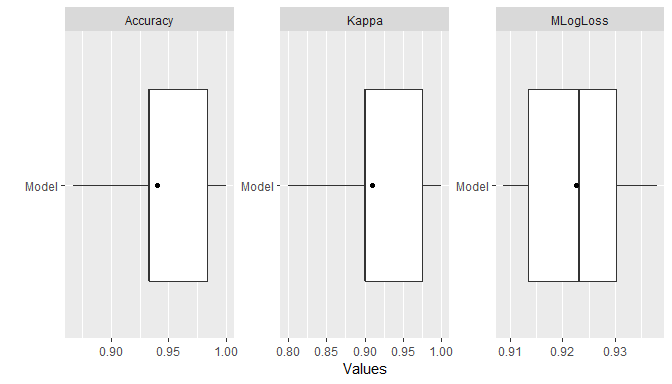
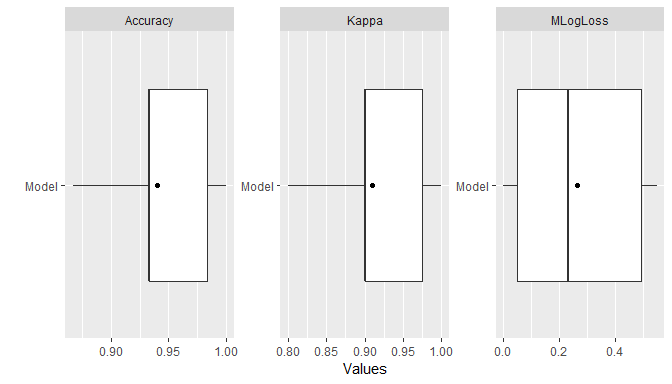
Documentation edits

Changed region(s): [[0.8438, 0.25, 0.875, 0.7188], [0.8125, 0.9062, 0.9375, 0.9375], [0.7188, 0.9062, 0.7812, 0.9375]]

diff --git a/README.md b/README.md
@@ -6,7 +6,7 @@ MachineShop: Machine Learning Models and Tools
 Overview
 --------
 
-`MachineShop` is a meta-package for machine learning with a common interface for model fitting, prediction, performance assessment, and presentation of results. Support is provided for predictive modeling of numerical, categorical, and censored time-to-event outcomes, including those listed in the table below, and for resample (bootstrap and cross-validation) estimation of model performance.
+`MachineShop` is a meta-package for statistical and machine learning with a common interface for model fitting, prediction, performance assessment, and presentation of results. Support is provided for predictive modeling of numerical, categorical, and censored time-to-event outcomes, including those listed in the table below, and for resample (bootstrap and cross-validation) estimation of model performance.
 
 <table class="table table-striped" style="width: auto !important; margin-left: auto; margin-right: auto;">
 <thead>
@@ -225,6 +225,9 @@ Installation
 # Development version from GitHub
 # install.packages("devtools")
 devtools::install_github("brian-j-smith/MachineShop")
+
+# Development version with vignettes
+devtools::install_github("brian-j-smith/MachineShop", build_vignettes = TRUE)
 ```
 
 Example
@@ -252,11 +255,11 @@ gbmfit <- fit(GBMModel(), Species ~ ., data = train)
 
 ## Variable importance
 (vi <- varimp(gbmfit))
-#>                 Overall
-#> Petal.Length 100.000000
-#> Petal.Width   12.700153
-#> Sepal.Width    2.140995
-#> Sepal.Length   0.000000
+#>                  Overall
+#> Petal.Length 100.0000000
+#> Petal.Width   12.9638575
+#> Sepal.Width    0.1409401
+#> Sepal.Length   0.0000000
 
 plot(vi)
 ```
@@ -266,13 +269,13 @@ plot(vi)
 ``` r
 ## Test set predicted probabilities
 predict(gbmfit, newdata = test, type = "prob") %>% head
-#>         setosa versicolor virginica
-#> [1,] 0.4216059  0.2975845 0.2808096
-#> [2,] 0.4216059  0.2975845 0.2808096
-#> [3,] 0.4216059  0.2975845 0.2808096
-#> [4,] 0.4216059  0.2975845 0.2808096
-#> [5,] 0.4219454  0.2958235 0.2822311
-#> [6,] 0.4229810  0.2952935 0.2817254
+#>         setosa   versicolor    virginica
+#> [1,] 0.9999755 2.449128e-05 2.828117e-08
+#> [2,] 0.9999365 6.346918e-05 6.535304e-09
+#> [3,] 0.9999365 6.346918e-05 6.535304e-09
+#> [4,] 0.9999755 2.449128e-05 2.828117e-08
+#> [5,] 0.9998941 1.059313e-04 8.577135e-09
+#> [6,] 0.9999291 7.084465e-05 5.736212e-09
 
 ## Test set predicted classification
 predict(gbmfit, newdata = test) %>% head
@@ -292,11 +295,11 @@ predict(gbmfit, newdata = test) %>% head
 #> resamples: 10
 
 summary(perf)
-#>                    Mean    Median         SD       Min       Max NA
-#> Accuracy      0.9400000 0.9333333 0.04919099 0.8666667 1.0000000  0
-#> Kappa         0.9100000 0.9000000 0.07378648 0.8000000 1.0000000  0
-#> WeightedKappa 0.9330032 0.9249531 0.05424416 0.8500000 1.0000000  0
-#> MLogLoss      0.9225421 0.9232478 0.01008958 0.9087998 0.9379053  0
+#>                    Mean    Median         SD          Min       Max NA
+#> Accuracy      0.9400000 0.9333333 0.04919099 0.8666666667 1.0000000  0
+#> Kappa         0.9100000 0.9000000 0.07378648 0.8000000000 1.0000000  0
+#> WeightedKappa 0.9322889 0.9249531 0.05538903 0.8500000000 1.0000000  0
+#> MLogLoss      0.2624184 0.2301317 0.23719156 0.0008299047 0.5474997  0
 
 plot(perf, metrics = c("Accuracy", "Kappa", "MLogLoss"))
 ```
@@ -307,8 +310,8 @@ plot(perf, metrics = c("Accuracy", "Kappa", "MLogLoss"))
 ## Model tuning
 gbmtune <- tune(GBMModel, Species ~ ., data = df,
                 grid = expand.grid(n.trees = c(25, 50, 100),
-                                    interaction.depth = 1:3,
-                                    n.minobsinnode = c(5, 10)))
+                                   interaction.depth = 1:3,
+                                   n.minobsinnode = c(5, 10)))
 
 plot(gbmtune, type = "line", metrics = c("Accuracy", "Kappa", "MLogLoss"))
 ```
@@ -322,6 +325,10 @@ Once the package is installed, general documentation on its usage can be viewed 
 
 ``` r
 library(MachineShop)
+
+# Package help summary
 ?MachineShop
+
+# Vignette
 RShowDoc("Introduction", package = "MachineShop")
 ```
